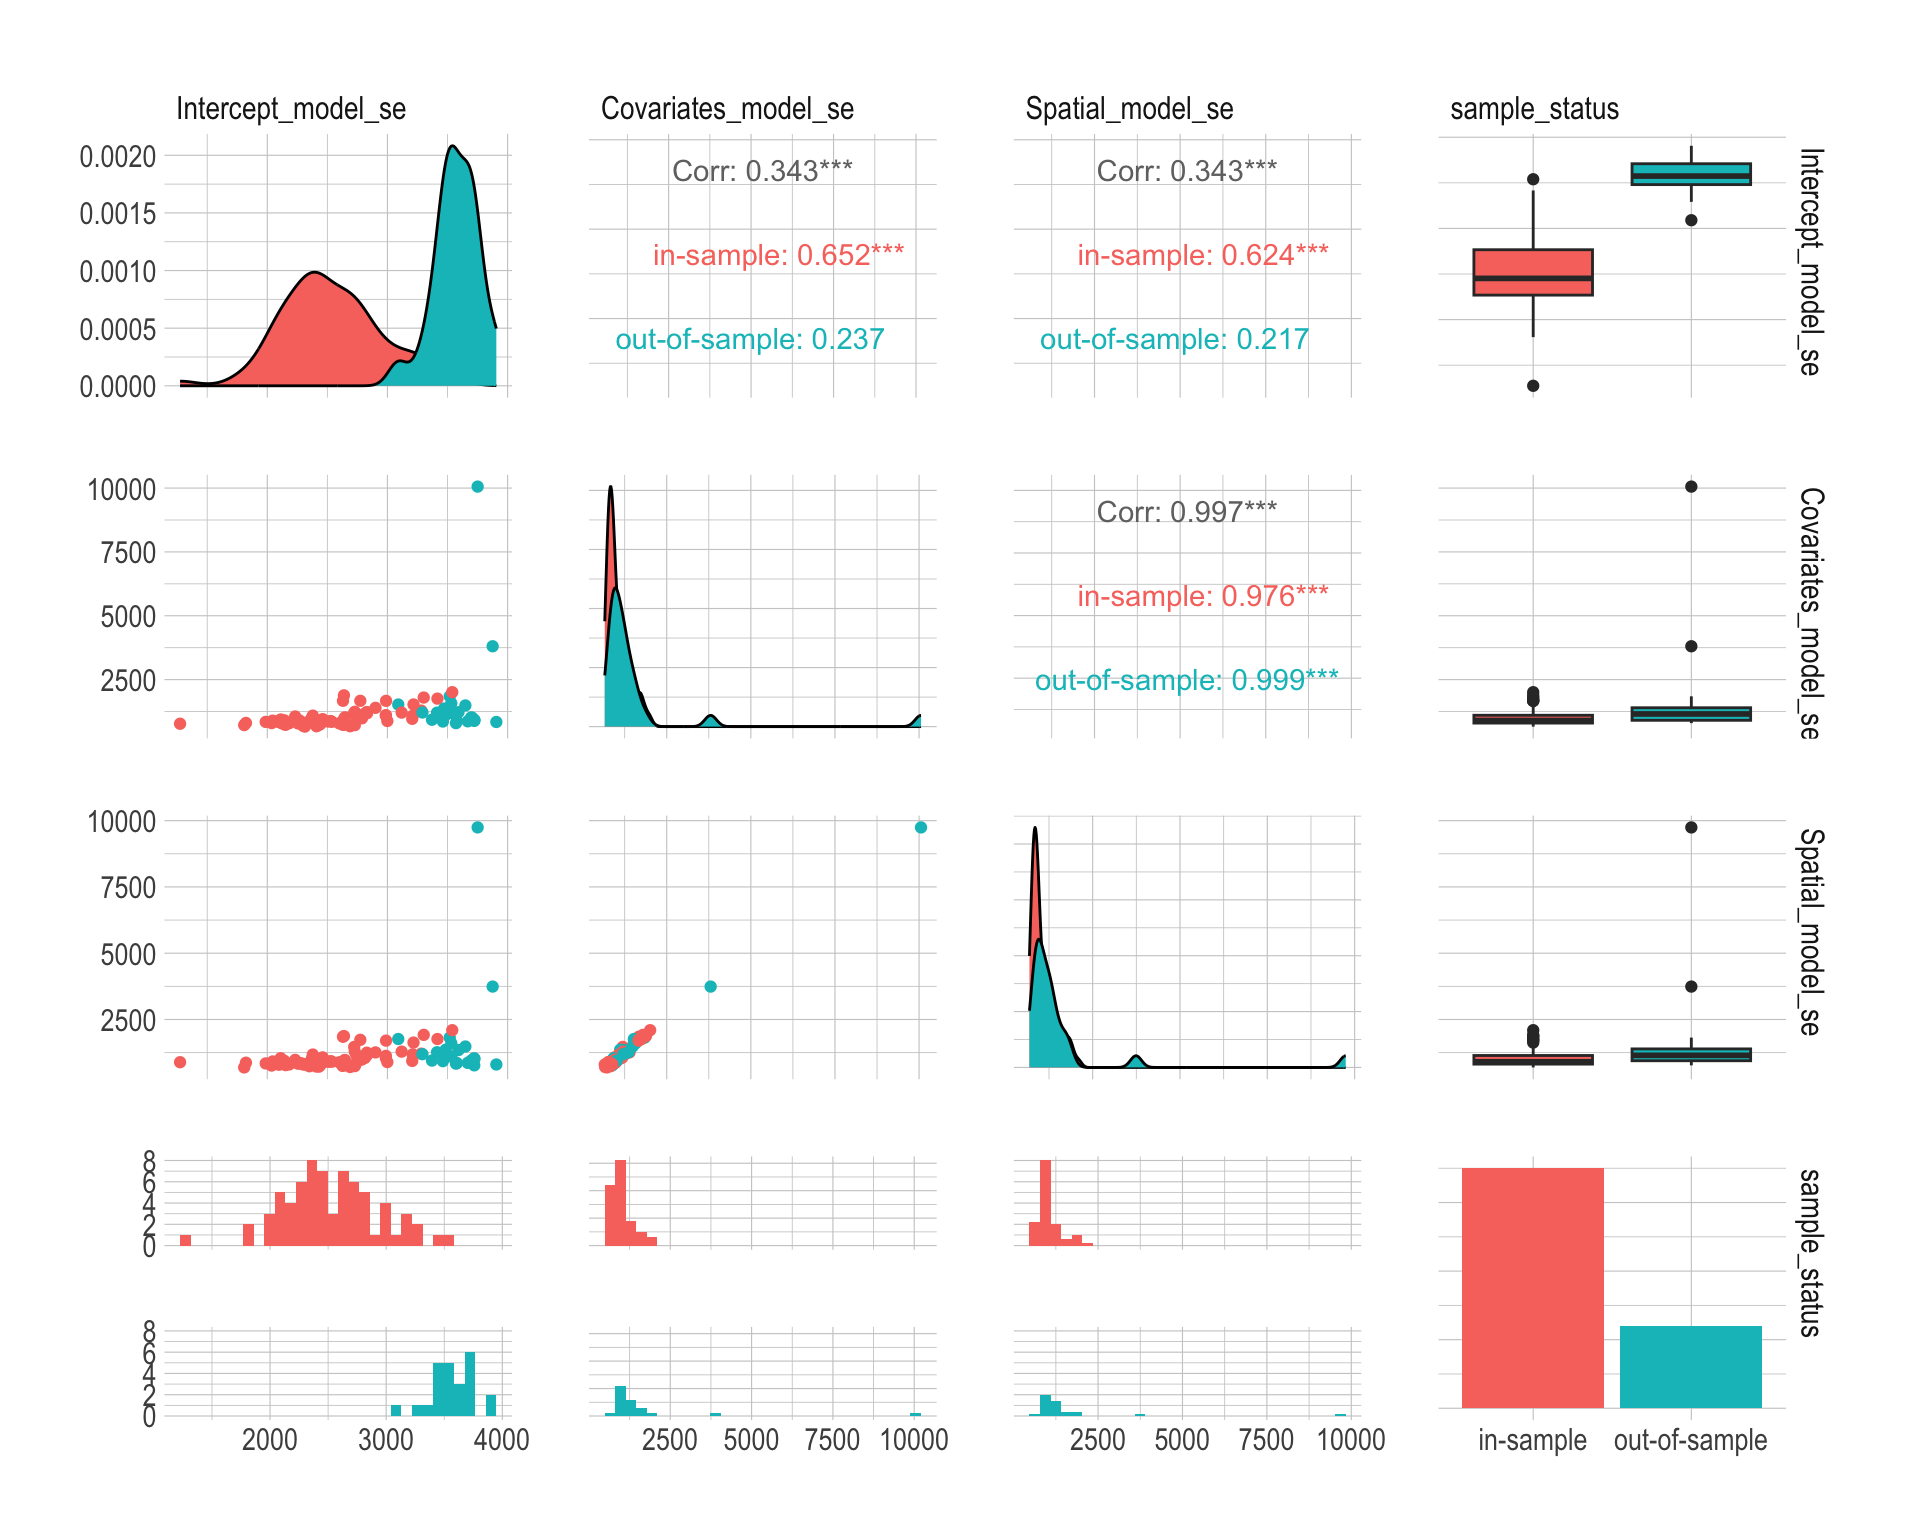
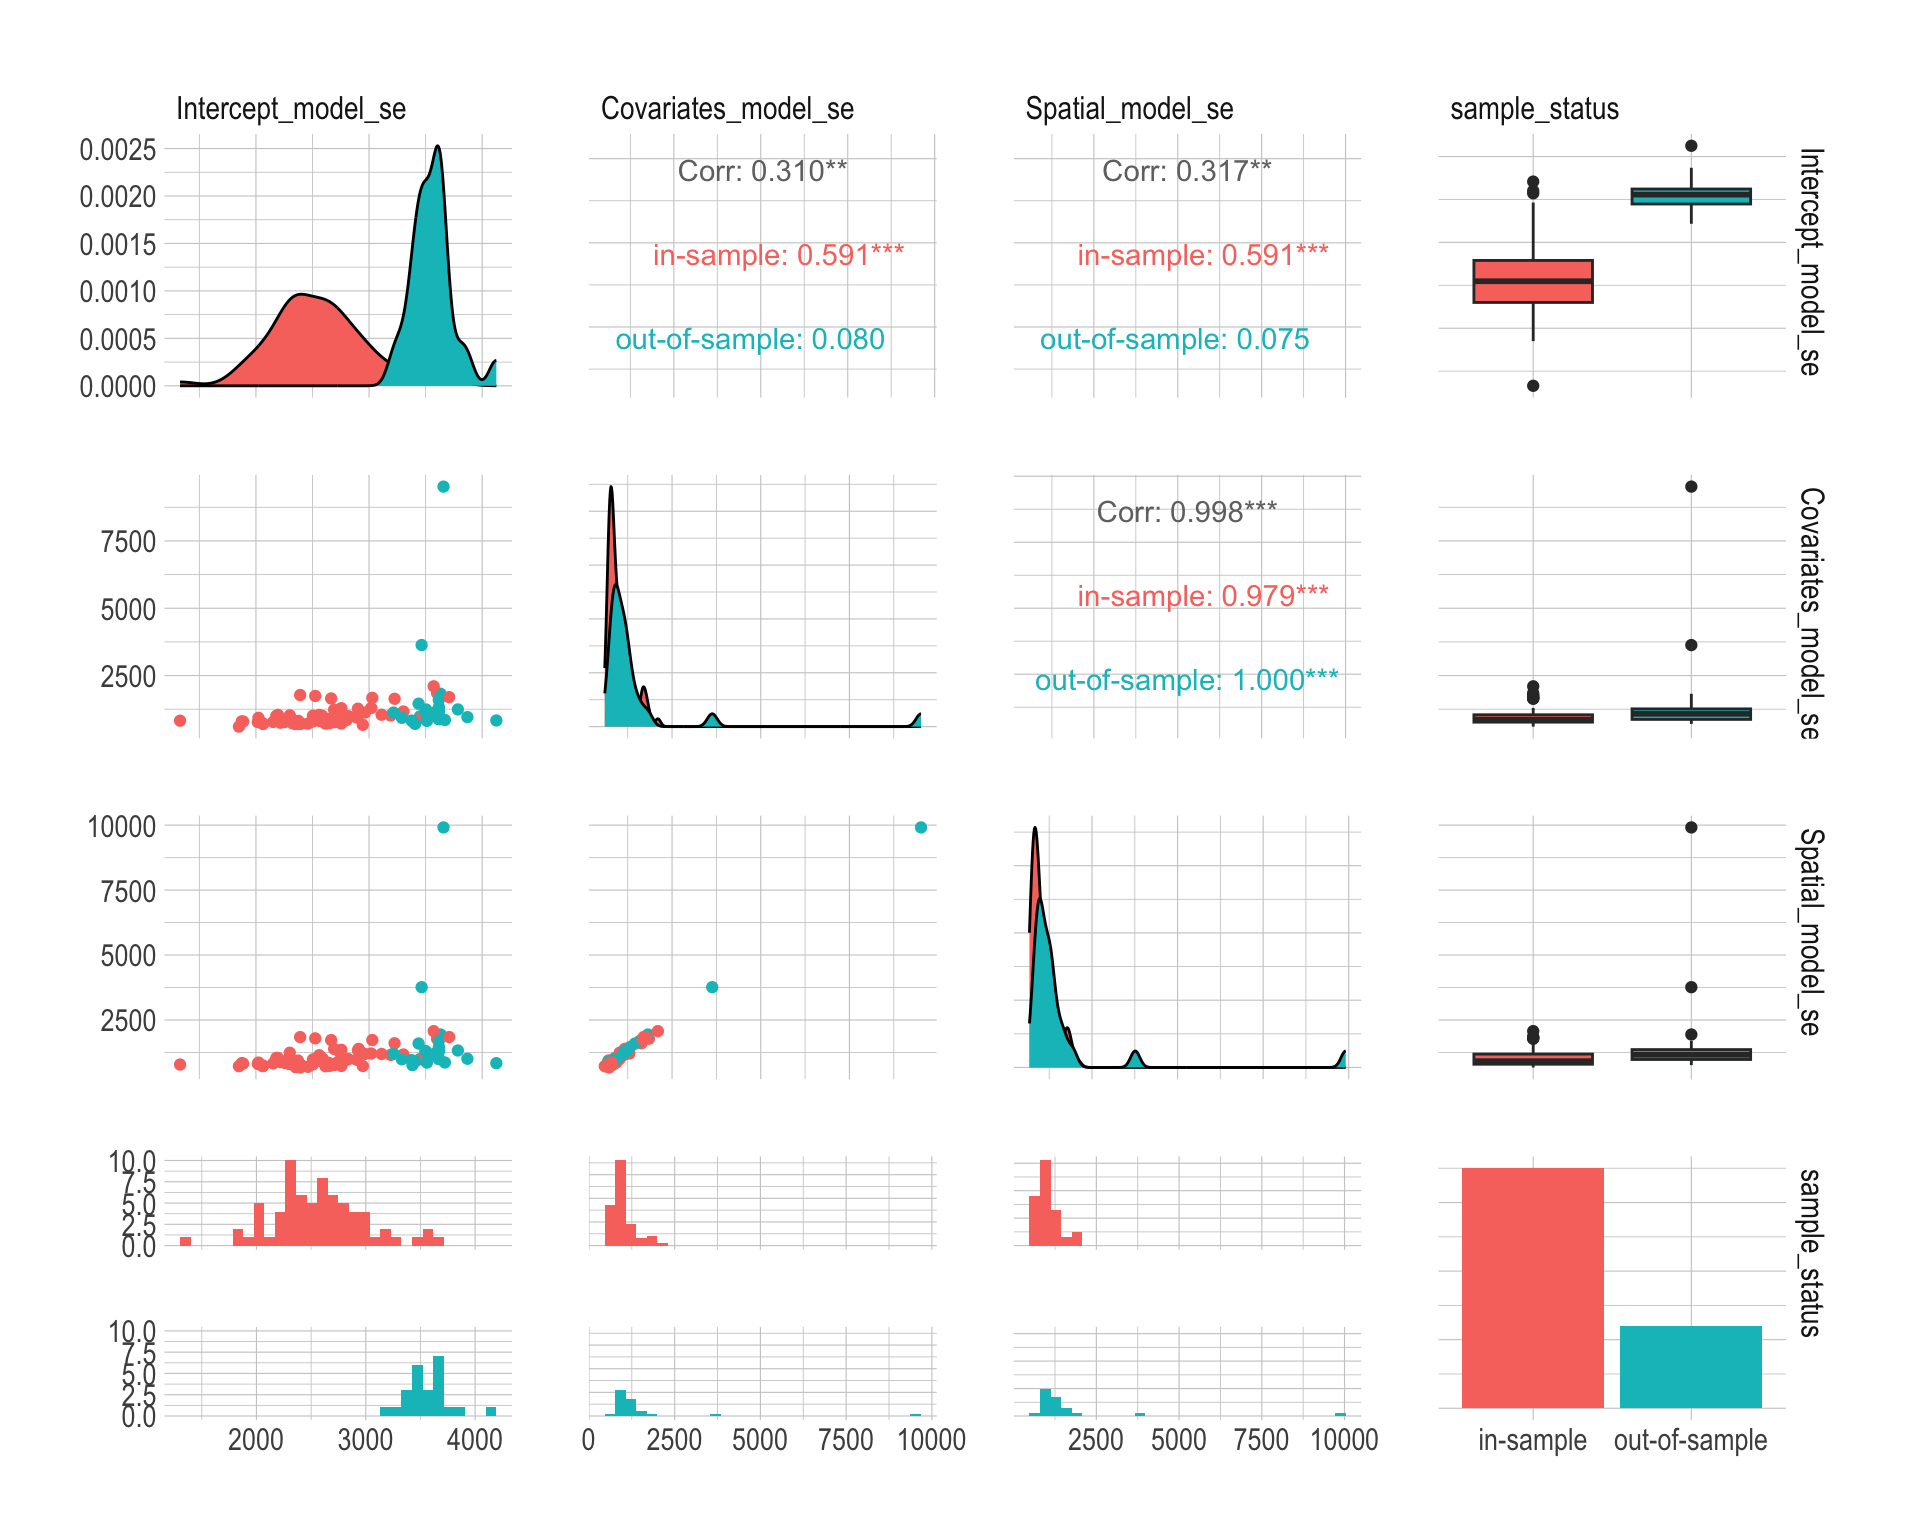
update link

diff --git a/docs/index.html b/docs/index.html
@@ -531,19 +531,19 @@ dir_est, :</code></pre>
 <span id="cb17-13"><a href="#cb17-13" aria-hidden="true" tabindex="-1"></a><span class="fu">head</span>(area_level_intercept)</span></code><button title="Copy to Clipboard" class="code-copy-button"><i class="bi"></i></button></pre></div>
 <div class="cell-output cell-output-stdout">
 <pre><code>               domain     mean   median      var     lower    upper
-1           Amstetten 16011.12 16077.14  5614417 11396.281 20265.46
-2               Baden 19900.50 19960.91  6056477 15555.171 24909.88
-3             Bludenz 14507.37 14522.90  5658534  9871.910 19153.96
-4      Braunau am Inn 13891.30 14046.44  4399153  9728.586 17534.04
-5             Bregenz 22038.43 22133.68 10903153 16433.496 29789.92
-6 Bruck an der Leitha 19985.76 19819.64 10769630 14037.264 26644.35
+1           Amstetten 16325.37 16327.81  5255584 11940.626 20363.68
+2               Baden 20072.79 20047.41  6270441 15759.826 25466.49
+3             Bludenz 14066.59 14209.55  5287145  9217.279 18321.29
+4      Braunau am Inn 14135.59 14280.16  3560058 10088.901 17631.38
+5             Bregenz 21757.78 21691.57 12969335 15010.542 28177.25
+6 Bruck an der Leitha 19828.53 19840.07  7242184 14843.555 25723.74
                  method       se
-1 Area level model: IID 2369.476
-2 Area level model: IID 2460.991
-3 Area level model: IID 2378.767
-4 Area level model: IID 2097.416
-5 Area level model: IID 3301.992
-6 Area level model: IID 3281.711</code></pre>
+1 Area level model: IID 2292.506
+2 Area level model: IID 2504.085
+3 Area level model: IID 2299.379
+4 Area level model: IID 1886.812
+5 Area level model: IID 3601.296
+6 Area level model: IID 2691.131</code></pre>
 </div>
 </div>
 </section>
@@ -593,19 +593,19 @@ Generating estimates for all domains in X.domain.</code></pre>
 <span id="cb22-13"><a href="#cb22-13" aria-hidden="true" tabindex="-1"></a><span class="fu">head</span>(area_level_covariates)</span></code><button title="Copy to Clipboard" class="code-copy-button"><i class="bi"></i></button></pre></div>
 <div class="cell-output cell-output-stdout">
 <pre><code>               domain     mean   median       var    lower    upper
-1           Amstetten 13087.62 13122.32  886405.5 11262.24 15155.71
-2               Baden 20192.73 20193.84  904684.6 18414.50 21927.09
-3             Bludenz 12615.84 12621.36 1186526.7 10277.40 14785.70
-4      Braunau am Inn 12295.54 12273.79  706875.8 10688.63 13915.90
-5             Bregenz 30582.54 30703.92 3229339.0 26898.49 33996.75
-6 Bruck an der Leitha 22642.25 22616.42 1653461.4 20021.29 25099.21
+1           Amstetten 13087.42 13113.90  704366.6 11193.23 14594.39
+2               Baden 20202.07 20175.04 1016180.4 18314.86 22410.61
+3             Bludenz 12649.78 12678.81 1045121.7 10475.73 14524.23
+4      Braunau am Inn 12184.06 12234.40  628365.3 10708.60 13667.32
+5             Bregenz 30622.38 30605.61 3411374.0 27396.43 34128.87
+6 Bruck an der Leitha 22509.28 22531.87 1513405.4 19989.97 25008.42
                  method        se
-1 Area level model: IID  941.4911
-2 Area level model: IID  951.1491
-3 Area level model: IID 1089.2781
-4 Area level model: IID  840.7591
-5 Area level model: IID 1797.0362
-6 Area level model: IID 1285.8699</code></pre>
+1 Area level model: IID  839.2655
+2 Area level model: IID 1008.0577
+3 Area level model: IID 1022.3119
+4 Area level model: IID  792.6950
+5 Area level model: IID 1846.9905
+6 Area level model: IID 1230.2054</code></pre>
 </div>
 </div>
 </section>
@@ -649,19 +649,19 @@ Generating estimates for all domains in X.domain.</code></pre>
 <span id="cb27-12"><a href="#cb27-12" aria-hidden="true" tabindex="-1"></a><span class="fu">head</span>(area_level_spatial)</span></code><button title="Copy to Clipboard" class="code-copy-button"><i class="bi"></i></button></pre></div>
 <div class="cell-output cell-output-stdout">
 <pre><code>               domain     mean   median       var     lower    upper
-1           Amstetten 13058.57 13030.53  718260.4 11330.725 14718.16
-2               Baden 20135.53 20099.55 1144945.7 18128.920 22375.31
-3             Bludenz 12339.61 12397.54 1384762.2  9849.241 14400.13
-4      Braunau am Inn 12190.85 12144.86  629821.0 10665.462 13988.95
-5             Bregenz 30504.99 30676.38 3683694.9 26447.014 33895.47
-6 Bruck an der Leitha 22549.46 22529.30 1466383.3 20198.067 24792.92
+1           Amstetten 13083.20 13085.47  651593.2 11554.875 14787.43
+2               Baden 20137.21 20062.81  964315.6 18363.726 22068.45
+3             Bludenz 12396.82 12368.26 1534652.0  9975.677 14699.08
+4      Braunau am Inn 12137.10 12214.69  678501.7 10247.750 13507.32
+5             Bregenz 30539.08 30441.30 3159589.4 27284.027 34228.56
+6 Bruck an der Leitha 22468.26 22497.30 1915093.0 19703.989 24921.16
                   method        se
-1 Area level model: BYM2  847.5024
-2 Area level model: BYM2 1070.0213
-3 Area level model: BYM2 1176.7592
-4 Area level model: BYM2  793.6126
-5 Area level model: BYM2 1919.2954
-6 Area level model: BYM2 1210.9431</code></pre>
+1 Area level model: BYM2  807.2132
+2 Area level model: BYM2  981.9957
+3 Area level model: BYM2 1238.8107
+4 Area level model: BYM2  823.7121
+5 Area level model: BYM2 1777.5234
+6 Area level model: BYM2 1383.8689</code></pre>
 </div>
 </div>
 </section>
@@ -856,19 +856,19 @@ y_{id} = \mathbf{x}_{id}^\top \boldsymbol{\beta} + u_d + \epsilon_{id}
 <span id="cb35-12"><a href="#cb35-12" aria-hidden="true" tabindex="-1"></a><span class="fu">head</span>(unit_level)</span></code><button title="Copy to Clipboard" class="code-copy-button"><i class="bi"></i></button></pre></div>
 <div class="cell-output cell-output-stdout">
 <pre><code>                domain     mean   median     var     lower    upper
-3            Amstetten 14753.45 14742.43 1518816 12202.591 16988.65
-4                Baden 22411.40 22487.14 1493002 20370.937 24713.75
-67             Bludenz 12368.85 12222.01 3221683  8905.980 15792.05
-39      Braunau am Inn 12181.64 12200.39 1992747  9154.205 15211.84
-68             Bregenz 34939.48 34940.32 1672080 32506.813 37332.86
-5  Bruck an der Leitha 22364.51 22399.76 1849579 19526.713 24906.34
+3            Amstetten 14847.64 14789.78 1992558 12259.925 17679.30
+4                Baden 22403.02 22380.96 1369828 20274.168 24675.57
+67             Bludenz 12463.96 12550.24 3982874  8456.855 16136.31
+39      Braunau am Inn 12195.80 12256.86 1772661  9666.628 14851.24
+68             Bregenz 34834.12 34809.52 1819903 32419.717 37655.24
+5  Bruck an der Leitha 22490.11 22606.18 2439930 19372.425 25431.52
                   method       se
-3  Unit level model: IID 1232.403
-4  Unit level model: IID 1221.885
-67 Unit level model: IID 1794.905
-39 Unit level model: IID 1411.647
-68 Unit level model: IID 1293.089
-5  Unit level model: IID 1359.992</code></pre>
+3  Unit level model: IID 1411.580
+4  Unit level model: IID 1170.396
+67 Unit level model: IID 1995.714
+39 Unit level model: IID 1331.413
+68 Unit level model: IID 1349.038
+5  Unit level model: IID 1562.027</code></pre>
 </div>
 </div>
 </section>
